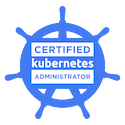
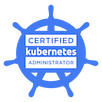
Resize images
I made the images themselves the size I wanted.

diff --git a/index.md b/index.md
@@ -5,13 +5,13 @@ title: Scott Eppler's CV
 # K. Scott Eppler
 Cloud Engineer, Automation Developer
 
-[![](img/cka.png){:height="100" width="100"}](https://www.youracclaim.com/badges/922356d4-fb6b-42dc-b475-dad0c0532dd3/public_url)
-[![](img/ckad.png){:height="100" width="100"}](https://www.youracclaim.com/badges/9df4e58d-b065-4b0f-8702-155310058caa/public_url)
-[![](img/tf.png){:height="100" width="100"}](https://www.youracclaim.com/badges/55293484-eda3-4c5c-87f7-c4d86e455b69/public_url)
-[![](img/vault.png){:height="100" width="100"}](https://www.youracclaim.com/badges/328c4608-7b47-4648-88e4-2deb3f6fa54a/public_url)
-[![](img/aws_saa.png){:height="100" width="100"}](https://www.youracclaim.com/badges/d5c957f8-b9ec-4714-b9a6-ff32938eee87/public_url)
-[![](img/aws_da.png){:height="100" width="100"}](https://www.youracclaim.com/badges/efcef512-45ba-4d79-8f2f-136b97201c9a/public_url)
-[![](img/aws_cp.png){:height="100" width="100"}](https://www.youracclaim.com/badges/4b05d6c0-2bc5-44e8-a865-2b1a44efc1f7/public_url)
+[![](img/cka.png)](https://www.youracclaim.com/badges/922356d4-fb6b-42dc-b475-dad0c0532dd3/public_url)
+[![](img/ckad.png)](https://www.youracclaim.com/badges/9df4e58d-b065-4b0f-8702-155310058caa/public_url)
+[![](img/tf.png)](https://www.youracclaim.com/badges/55293484-eda3-4c5c-87f7-c4d86e455b69/public_url)
+[![](img/vault.png)](https://www.youracclaim.com/badges/328c4608-7b47-4648-88e4-2deb3f6fa54a/public_url)
+[![](img/aws_saa.png)](https://www.youracclaim.com/badges/d5c957f8-b9ec-4714-b9a6-ff32938eee87/public_url)
+[![](img/aws_da.png)](https://www.youracclaim.com/badges/efcef512-45ba-4d79-8f2f-136b97201c9a/public_url)
+[![](img/aws_cp.png)](https://www.youracclaim.com/badges/4b05d6c0-2bc5-44e8-a865-2b1a44efc1f7/public_url)
 
 <div id="webaddress">
 <a href="mailto:k.scott.eppler@gmail.com">k.scott.eppler@gmail.com</a> |
